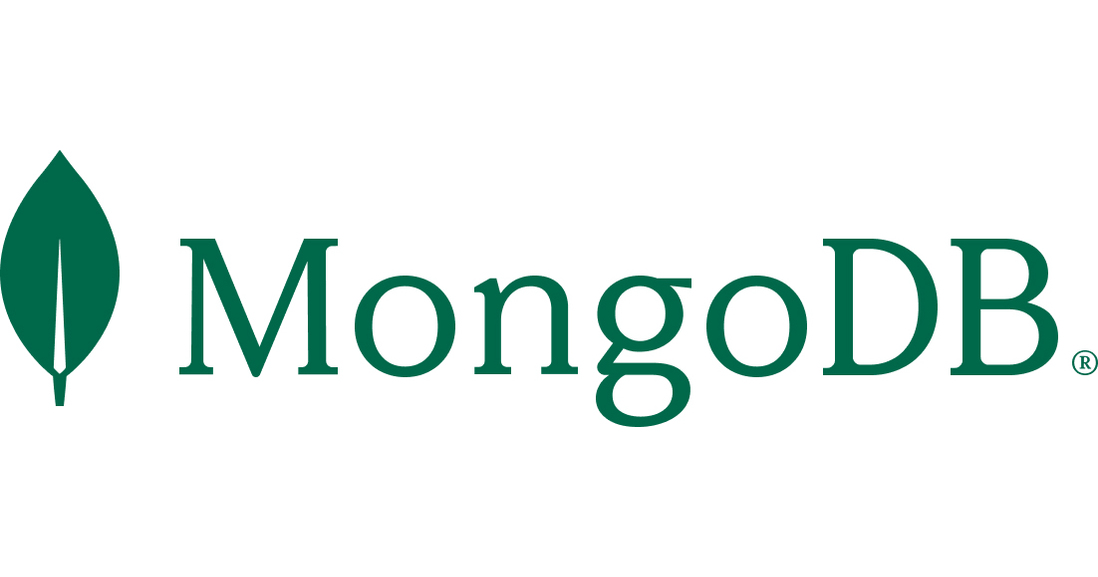
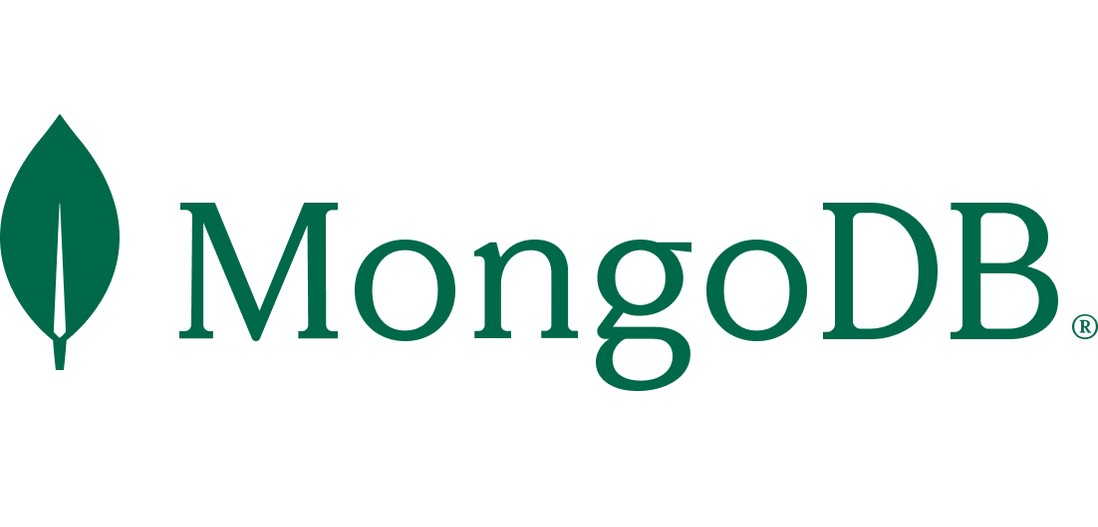
Added Technalities

diff --git a/templates/home.html b/templates/home.html
@@ -22,7 +22,7 @@
   }
 
   .image-row img {
-    width: 300px; /* Adjust the width of the images */
+    width: 330px; /* Adjust the width of the images */
     height: auto; /* Maintain aspect ratio */
     border: 2px solid #ddd; /* Add border */
     border-radius: 8px; /* Rounded corners */
@@ -202,13 +202,15 @@
     
       <a href="#" class="btn btn-lg btn-outline-primary mt-4">Explore More Research</a>
   </div>
+  <div class="bg-white text-dark text-lg-start mt-0 p-4 rounded-lg shadow">
+    <h2 class="text-center">Technicalities</h2>
   <div class="image-row mb-4">
     <img src="static\pipeline.png" alt="Pipeline" class="rounded">
     <img src="static\transformers.png" alt="Transformers" class="rounded">
     <img src="static\flask.png" alt="Flask" class="rounded">
     <img src="static\MongoDB.jpg" alt="MongoDB" class="rounded">
   </div>
-  
+  </div>
   
   </div>
   {% include 'footer.html' %}
